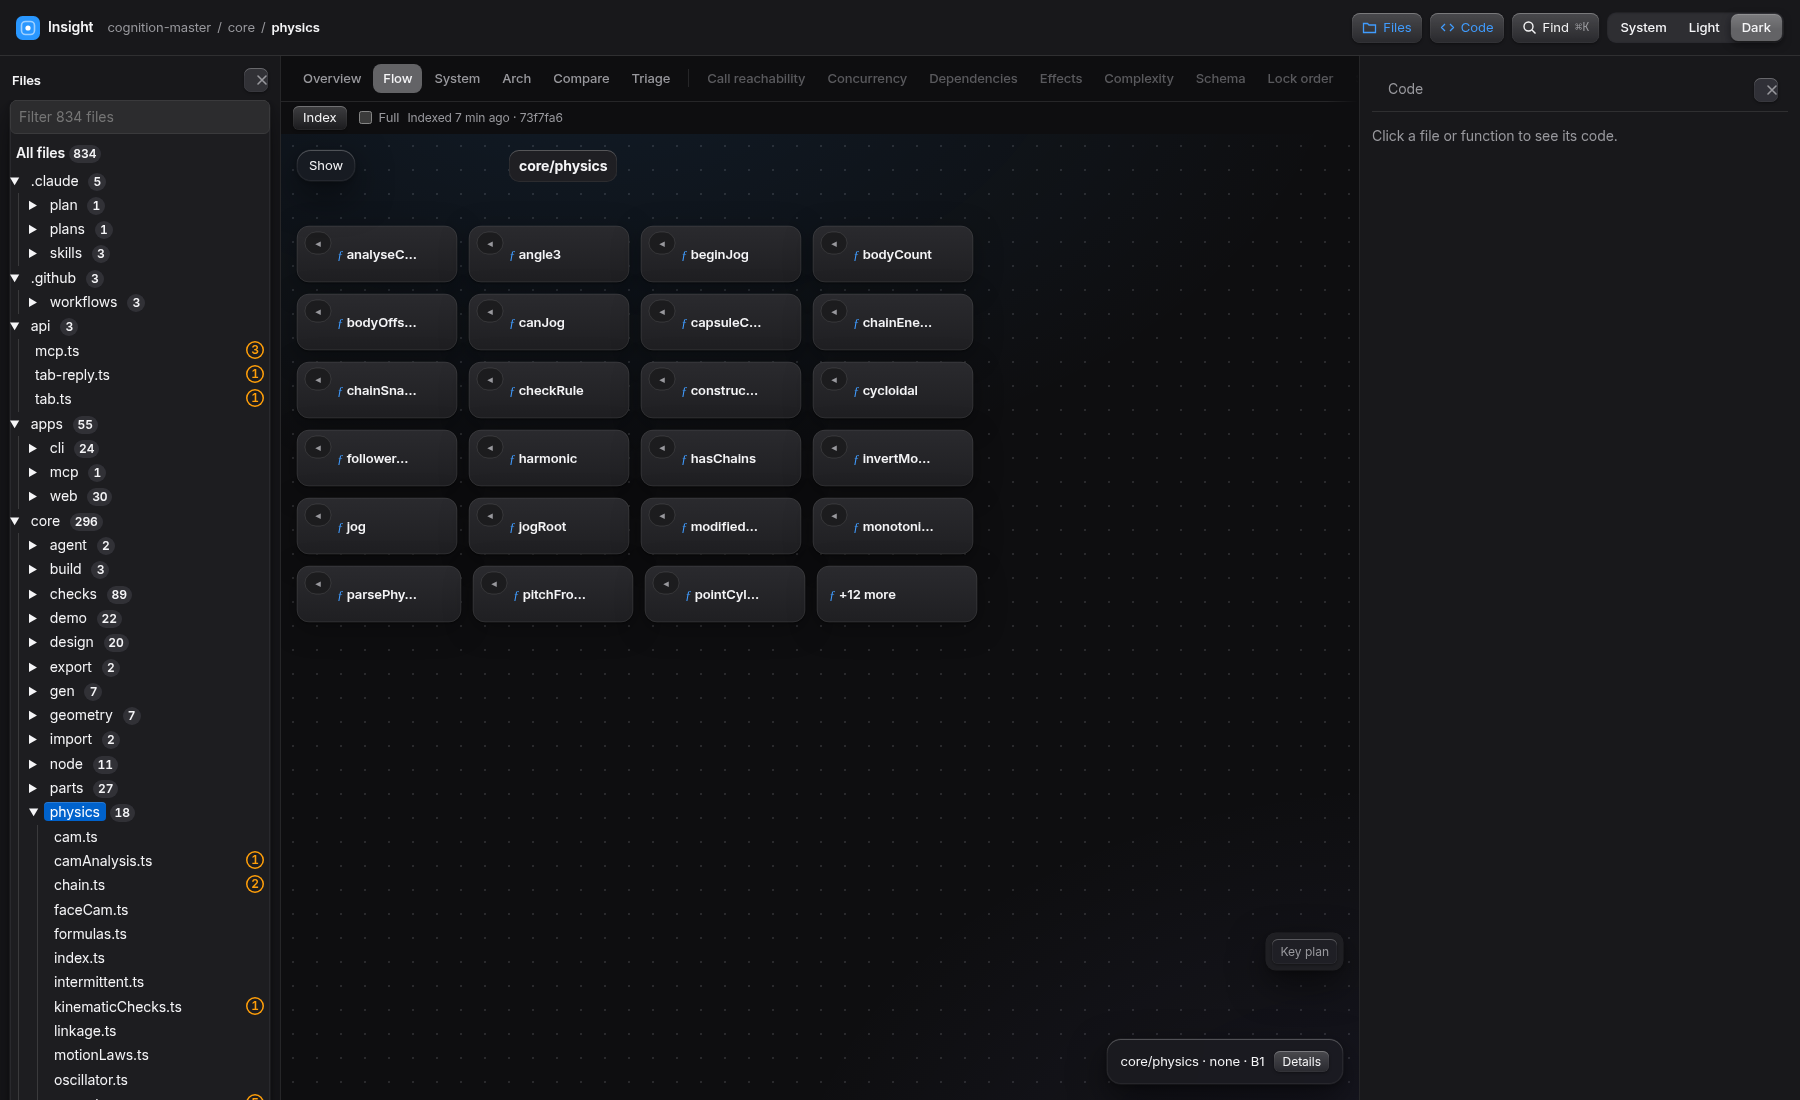
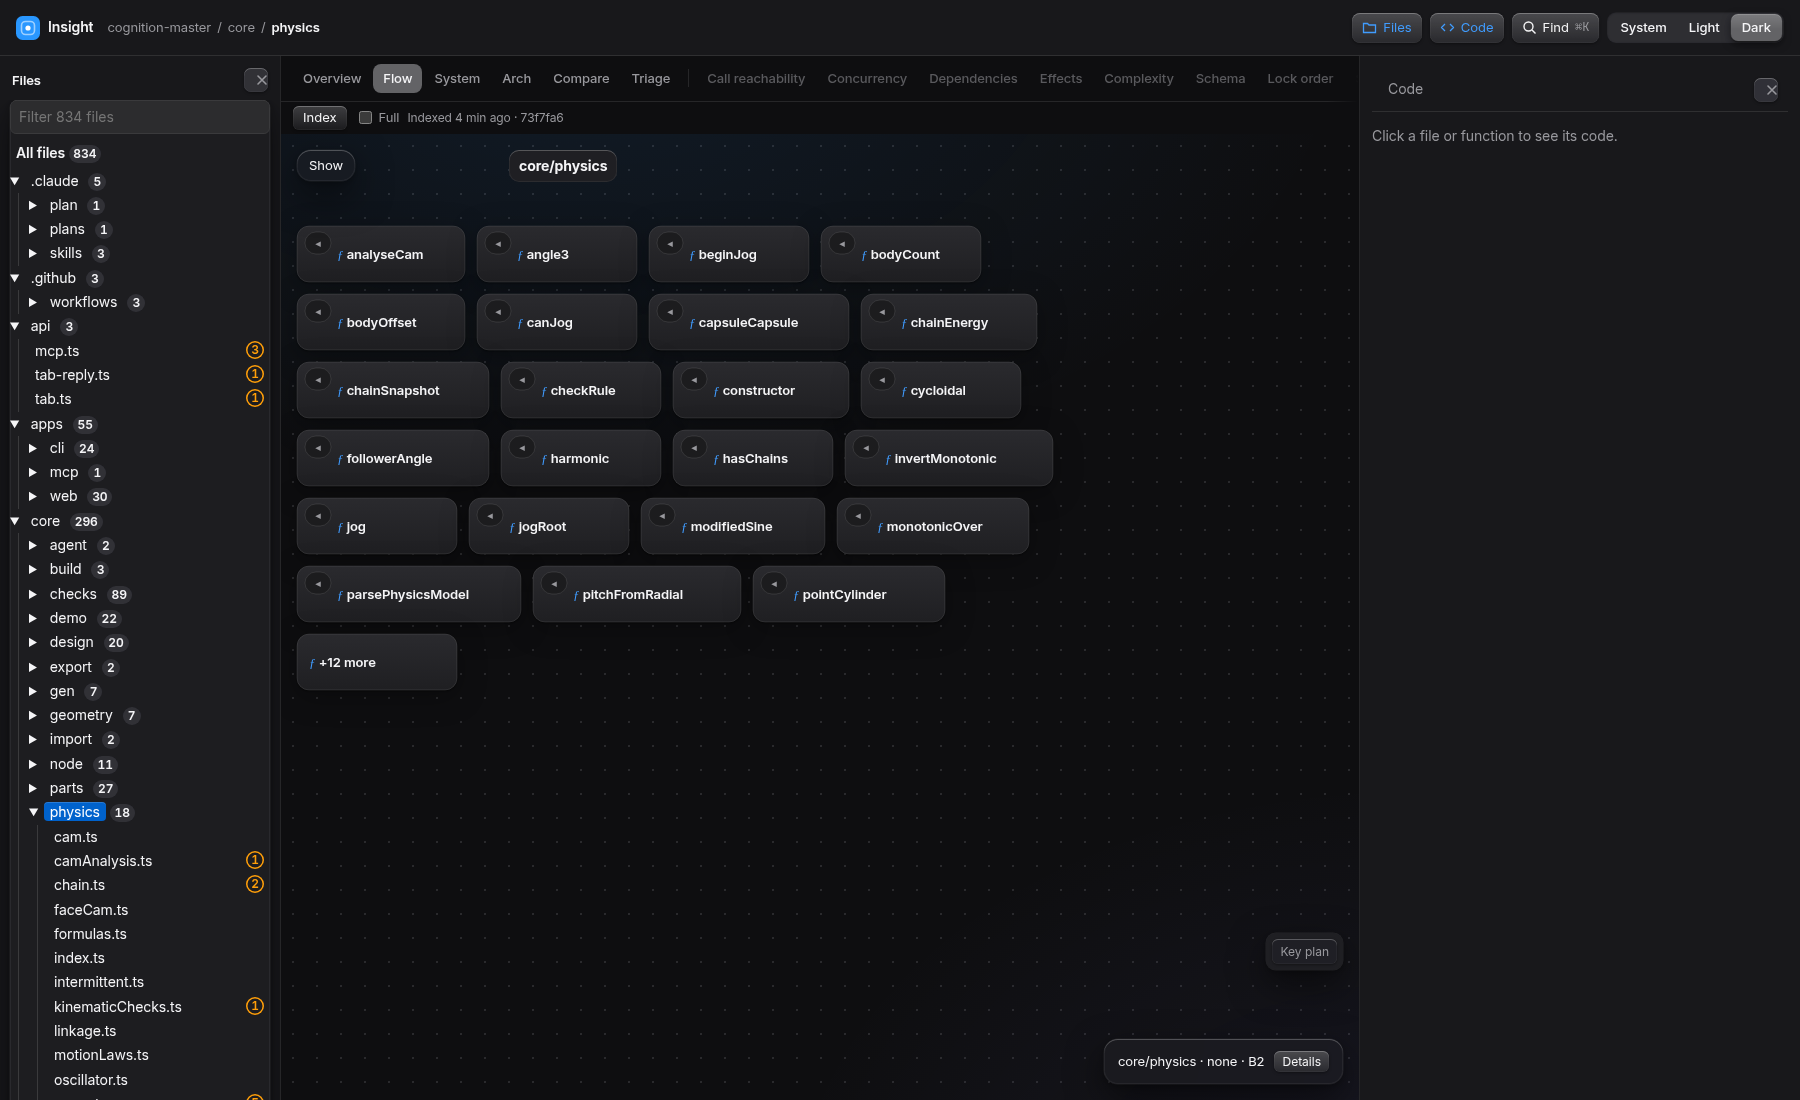
flow: cards fit their whole name at 1x; compact ◂ on every card
cardWidth now sizes a card for its whole name beside the compact
Callers button, using constants shared with ZoomMap (roots-grid.ts).
The more card reserves no button room. Names no longer lose their
last character to the ellipsis. The stem line keeps clear of the
self-sync badge. Tests cover the fit at 1x, the stem and badge, and
a function whose id ends in #more opening as a function.

Changed region(s): [[0.1556, 0.2164, 0.5911, 0.6182], [0.6222, 0.9582, 0.6844, 0.9891], [0.2489, 0.0927, 0.3111, 0.1236]]

diff --git a/apps/web/src/components/zoom/ZoomMap.tsx b/apps/web/src/components/zoom/ZoomMap.tsx
@@ -7,7 +7,7 @@
 import { useEffect, useId, useLayoutEffect, useMemo, useRef, useState, type KeyboardEvent as KeyEvent, type PointerEvent as PointerEv, type ReactNode } from "react";
 import { select } from "d3-selection";
 import { zoom, zoomIdentity, type D3ZoomEvent, type ZoomBehavior, type ZoomTransform } from "d3-zoom";
-import { CHART_FIT_MAX_K, CHART_HEAD, ZOOM_SIZE, fitCamera, fitChartCamera, visibleWorld, type Camera, type FlowNode, type FlowSpan, type FunctionFlow, type PlacedItem, type Rect } from "@insight/flow";
+import { CARD_CALLERS_ROOM, CARD_CHAR_W, CARD_GLYPH_CHARS, CARD_NAME_PAD, CHART_FIT_MAX_K, CHART_HEAD, ZOOM_SIZE, fitCamera, fitChartCamera, visibleWorld, type Camera, type FlowNode, type FlowSpan, type FunctionFlow, type PlacedItem, type Rect } from "@insight/flow";
 import { isPostStep, nameOfId, runtimeLabel, stepRuntime } from "../../flowTargets";
 import { hrefView } from "../../router";
 import { CHART_MIN_PX } from "../../zoom/chart";
@@ -16,7 +16,7 @@ import { callersKey, isCallersKey, refOfCallersKey, type CallerRow } from "../..
 import { LatestLoad } from "../../zoom/latestLoad";
 import { CallersBox } from "./CallersBox";
 import { fileTarget, useCodeTarget } from "../../codeTarget";
-import { CALLERS_BTN_H, CALLERS_BTN_W, CALLERS_COMPACT_W, CallersButton, FULL_K, GLYPH_K } from "./CallersControl";
+import { CALLERS_BTN_H, CALLERS_COMPACT_W, CallersButton, GLYPH_K } from "./CallersControl";
 import { calloutD } from "../../zoom/connector";
 import { popDelay } from "../../zoom/pop";
 import { displayName } from "../../zoom/names";
@@ -2008,20 +2008,20 @@ export function BoxShape({
   if (card && !small && !bare) {
     // A card: its name alone, centred vertically, fitted to the card's width on screen.
     // Two characters of the budget go to the leading function glyph (ƒ), so the name stays inside the card.
-    // A card tall enough for it takes a Callers button at its left, and its name keeps clear of the button. The name
-    // comes first: when it would not fit whole beside the full button, the button is compact (the ◂ alone).
+    // A card tall enough for it takes a compact Callers button (the ◂ alone) at its left, and its name keeps clear of it.
+    // The name's budget is the card's width less the button's room, the padding and the ƒ glyph (the constants are shared
+    // with roots-grid.ts's cardWidth, which sizes the card so a name fits whole at 1x).
     const showCallers = onCallers !== undefined && rect.h >= CALLERS_BTN_H + 12 && k >= GLYPH_K;
     // The name's font is 13 px on screen until 11 world units grow past it (above about 1.2×), and a character takes about
     // 0.6 of the font: the fit follows the font as it grows with the zoom.
-    const charPx = Math.max(8, 6.8 * k);
+    const charPx = Math.max(CARD_CHAR_W, 6.8 * k);
     // The name starts 12 units in (after the chip, when there is one) and keeps 12 clear of the card's right edge. A card
     // with a stem line draws the bare name on its first line, and the stem on a second line under it, at the same x.
-    const nameIn = (room: number) => fitLabel(base, Math.max(1, labelChars((rect.w - room) * k, charPx, 20) - 2));
-    const fullName = nameIn(showCallers ? CALLERS_BTN_W + 26 : 0);
-    const compactCallers = showCallers && (fullName !== base || k < FULL_K);
-    const name = compactCallers ? nameIn(CALLERS_COMPACT_W + 26) : fullName;
-    const textX = rect.x + 12 + (showCallers ? (compactCallers ? CALLERS_COMPACT_W : CALLERS_BTN_W) - 4 + 6 : 0);
-    const stem = subTag !== undefined ? fitLabel(subTag, Math.max(1, labelChars((rect.x + rect.w - 12 - textX) * k, charPx * 0.9, 20))) : null;
+    const name = fitLabel(base, Math.max(1, labelChars((rect.w - (showCallers ? CARD_CALLERS_ROOM : 0)) * k, charPx, CARD_NAME_PAD) - CARD_GLYPH_CHARS));
+    const textX = rect.x + 12 + (showCallers ? CALLERS_COMPACT_W - 4 + 6 : 0);
+    // The stem line keeps clear of the self-sync badge at the card's bottom right (about charPx a character, 10 px to its left).
+    const badgePx = selfSync !== undefined ? `⇆ ${selfSync.length}`.length * charPx + 10 : 0;
+    const stem = subTag !== undefined ? fitLabel(subTag, Math.max(1, labelChars((rect.x + rect.w - 12 - textX) * k - badgePx, charPx * 0.9, CARD_NAME_PAD))) : null;
     return (
       <g className={`zm-box zm-${node.kind} zm-card ${lineClass(line)}${holdsChart ? " zm-has-chart" : ""}${chartOpen ? " expanded" : ""}${unguarded ? " zm-unguarded" : ""}`} data-sx={rect.x} data-fid={item.id} onClick={() => onOpen(item.id)} onDoubleClick={onDoubleOpen ? () => onDoubleOpen(item.id) : undefined}>
         <title>{`${node.detail !== undefined ? `${node.label} (${node.detail})` : node.title || node.label}${unguardedTitle}${selfSyncTitle}`}</title>
@@ -2047,7 +2047,7 @@ export function BoxShape({
           )}
         </g>
         {showCallers && (
-          <CallersButton x={rect.x + 8} y={rect.y + 6} name={shown} open={callersOpen} onClick={onCallers} k={k} compact={compactCallers} />
+          <CallersButton x={rect.x + 8} y={rect.y + 6} name={shown} open={callersOpen} onClick={onCallers} k={k} compact />
         )}
       </g>
     );

diff --git a/apps/web/test/zoomFrames.test.tsx b/apps/web/test/zoomFrames.test.tsx
@@ -2,7 +2,7 @@ import { describe, expect, it } from "vitest";
 import { renderToStaticMarkup } from "react-dom/server";
 import { BoxShape, isMoreCard } from "../src/components/zoom/ZoomMap";
 import type { MapNode } from "../src/zoom/source";
-import type { PlacedItem } from "@insight/flow";
+import { cardWidth, type PlacedItem } from "@insight/flow";
 
 // The boxes of the flat grid: a card, an external command's chip, and a card's badges. The Flow canvas draws no runtime frames
 // (thread, group, process), so none is tested here. The map builds its items in an effect, so a box is rendered on its own,
@@ -140,5 +140,74 @@ describe("the flat grid's card names", () => {
     expect(isMoreCard({ kind: "more" })).toBe(true);
     expect(isMoreCard({ kind: "function" })).toBe(false);
     expect(isMoreCard(undefined)).toBe(false);
+  });
+});
+
+describe("the flat grid's card fits", () => {
+  // A card drawn at the width cardWidth gives its name, at 1x, with its Callers button: the whole name shows, no "…".
+  it.each([["a"], ["settle"], ["settleChains"], ["bodyCountOfTheActuatorChain"], ["linkPlateLongNameHere"]])("shows the whole name %s at 1x", (name) => {
+    const html = svg(
+      <BoxShape
+        item={box("fn", 0, 0, cardWidth(name), 56)}
+        node={node("fn", "function", name, { ref: `src/x.ts#${name}` })}
+        line="thread"
+        k={1}
+        onOpen={() => undefined}
+        onCallers={() => undefined}
+        chartOpen={false}
+        card
+      />,
+    );
+    expect(html).toContain(`ƒ</tspan> ${name}</text>`);
+    expect(html).toContain("zm-callers-btn");
+    expect(html).not.toContain("…");
+  });
+
+  it("shows a more card's whole name at its own width, with no Callers button", () => {
+    const name = "+12 more";
+    const html = svg(
+      <BoxShape item={box("p#more", 0, 0, cardWidth(name, false), 56)} node={node("p#more", "more", name)} line="thread" k={1} onOpen={() => undefined} chartOpen={false} card />,
+    );
+    expect(html).toContain(`ƒ</tspan> ${name}</text>`);
+    expect(html).not.toContain("…");
+  });
+
+  it("keeps the stem line clear of the self-sync badge: a stem under the badge is cut short", () => {
+    // At 320 wide the stem's room is 38 characters plain and 33 under the badge, so a 36-character stem fits plain only.
+    const stem = "abcdefghijklmnopqrstuvwxyz0123456789";
+    const draw = (syncSelf?: MapNode["syncSelf"]) =>
+      svg(
+        <BoxShape
+          item={box("main", 0, 0, 320, 56)}
+          node={node("main", "function", "main", { ref: "src/m.ts#main", shownName: `main · ${stem}`, syncSelf })}
+          line="thread"
+          k={1}
+          onOpen={() => undefined}
+          chartOpen={false}
+          card
+        />,
+      );
+    const subOf = (html: string) => /class="zm-card-sub"[^>]*>([^<]*)</.exec(html)?.[1] ?? "";
+    const plain = subOf(draw());
+    const badged = subOf(draw([{ name: "a", kind: "lock" }]));
+    expect(plain).toBe(stem);
+    expect(badged.length).toBeLessThan(plain.length);
+    expect(badged.endsWith("…")).toBe(true);
+  });
+
+  it("opens a function card whose id ends in #more, and does not treat it as the more card", () => {
+    const clicks: string[] = [];
+    const el = BoxShape({
+      item: box("pkg/mod.ts#more", 0, 0, 240, 56),
+      node: node("pkg/mod.ts#more", "function", "more", { ref: "pkg/mod.ts#more" }),
+      line: "thread",
+      k: 1,
+      onOpen: (id) => clicks.push(id),
+      chartOpen: false,
+      card: true,
+    }) as React.ReactElement<{ onClick?: () => void }>;
+    el.props.onClick?.();
+    expect(clicks).toEqual(["pkg/mod.ts#more"]);
+    expect(isMoreCard({ kind: "function" })).toBe(false);
   });
 });

diff --git a/packages/core/flow/src/roots-grid.ts b/packages/core/flow/src/roots-grid.ts
@@ -10,11 +10,17 @@ export const CARD_H = 56;
 /** A card's width: the full name, between these bounds. Only a name past the maximum is truncated. */
 export const CARD_MIN_W = 160;
 export const CARD_MAX_W = 320;
-/** The width of a monospace character at the card's name size (12 px), and the card's inner padding. */
-const CHAR_W = 8;
-const CARD_PAD_W = 28;
-/** The room a card keeps for its Callers button at its left (the button is about 78 px wide, and the name starts past it). */
-const CARD_CALLERS_W = 52;
+/**
+ * The name's width at 1x, shared with ZoomMap's card (apps/web/src/components/zoom/ZoomMap.tsx), which fits the name in the
+ * card's width with these. A character of the name is CARD_CHAR_W px (12 px monospace); the leading ƒ glyph takes
+ * CARD_GLYPH_CHARS of the budget; CARD_NAME_PAD is the label's padding (labelChars).
+ */
+export const CARD_CHAR_W = 8;
+export const CARD_GLYPH_CHARS = 2;
+export const CARD_NAME_PAD = 20;
+/** The compact Callers button (the ◂ alone) is CARD_CALLERS_W wide; a card keeps 26 px clear beside it for the name. */
+export const CARD_CALLERS_W = 26;
+export const CARD_CALLERS_ROOM = CARD_CALLERS_W + 26;
 /** The gap between cards, both ways. */
 export const CARD_GAP = 12;
 /** The grid's width: it wraps here, so the grid fits a 1600 px window's map at 1x. */
@@ -24,9 +30,13 @@ export const CARD_PAD_TOP = 64;
 export const CARD_PAD_BOTTOM = 170;
 export const CARD_PAD_SIDE = 16;
 
-/** A card's width for a name: the name's width plus the Callers button's room, between CARD_MIN_W and CARD_MAX_W. */
-export function cardWidth(label: string): number {
-  const w = Math.ceil(label.length * CHAR_W) + CARD_PAD_W + CARD_CALLERS_W;
+/**
+ * A card's width for a name: the whole name fits beside the compact Callers button (a card with no button, such as the
+ * "+N more" card, keeps no room for it). Between CARD_MIN_W and CARD_MAX_W; only a name past the maximum is truncated.
+ */
+export function cardWidth(label: string, callers = true): number {
+  const room = callers ? CARD_CALLERS_ROOM : 0;
+  const w = Math.ceil(CARD_CHAR_W * (label.length + CARD_GLYPH_CHARS) + CARD_NAME_PAD + room);
   return Math.min(CARD_MAX_W, Math.max(CARD_MIN_W, w));
 }
 
@@ -53,7 +63,7 @@ export function gridRootsLayout(scene: Scene, footprint?: Footprint): SceneLayou
   let width = 0;
   for (const id of kids) {
     const n = scene.nodes.get(id);
-    const w = cardWidth(n === undefined ? id : (n.shownName ?? displayName(n.label, n.ref)));
+    const w = cardWidth(n === undefined ? id : (n.shownName ?? displayName(n.label, n.ref)), n?.kind !== "more");
     const room = footprint?.get(id);
     const left = room?.left ?? 0;
     const outerW = left + w + (room?.w ?? 0);

diff --git a/packages/core/flow/test/roots-grid.test.ts b/packages/core/flow/test/roots-grid.test.ts
@@ -1,5 +1,5 @@
 import { describe, expect, it } from "vitest";
-import { CARD_GAP, CARD_H, CARD_MAX_W, CARD_MIN_W, CARD_PAD_BOTTOM, CARD_PAD_TOP, CARD_WRAP_W, cardWidth, gridRootsLayout } from "../src/roots-grid.js";
+import { CARD_CALLERS_ROOM, CARD_CHAR_W, CARD_GAP, CARD_GLYPH_CHARS, CARD_H, CARD_MAX_W, CARD_MIN_W, CARD_NAME_PAD, CARD_PAD_BOTTOM, CARD_PAD_TOP, CARD_WRAP_W, cardWidth, gridRootsLayout } from "../src/roots-grid.js";
 import type { Scene, SceneNode } from "../src/scene.js";
 
 function flat(labels: string[]): Scene {
@@ -11,18 +11,36 @@ function flat(labels: string[]): Scene {
 }
 
 describe("cardWidth", () => {
-  it("leaves room for the Callers button, 52 px beyond the name", () => {
-    expect(cardWidth("settleChains")).toBe("settleChains".length * 8 + 28 + 52);
+  it("reserves the compact Callers button's room and the padding beyond the name's characters", () => {
+    // the glyph (2 characters), the label padding (20 px) and the button's room (52 px) sit beside the name's 8 px characters
+    expect(cardWidth("settleChains")).toBe(8 * ("settleChains".length + 2) + 20 + 52);
+  });
+
+  it("keeps no button room for a card without a Callers button (the more card)", () => {
+    const label = "x".repeat(20);
+    expect(cardWidth(label, false)).toBe(8 * (label.length + 2) + 20);
+    expect(cardWidth(label)).toBe(cardWidth(label, false) + 52);
   });
 
   it("fits the name between the minimum and the maximum", () => {
-    expect(cardWidth("ab")).toBe(CARD_MIN_W);
+    expect(cardWidth("")).toBe(CARD_MIN_W);
     expect(cardWidth("a".repeat(60))).toBe(CARD_MAX_W);
     const mid = cardWidth("settleChains");
     expect(mid).toBeGreaterThanOrEqual(CARD_MIN_W);
     expect(mid).toBeLessThanOrEqual(CARD_MAX_W);
-    expect(mid).toBeGreaterThanOrEqual("settleChains".length * 7.2 + 26);
   });
+
+  // The width ZoomMap needs for a name to fit whole at 1x: its budget is the width less the button's room and the padding,
+  // and the ƒ glyph takes two characters of it (see ZoomMap's card), so the name needs (length + 2) characters of 8 px.
+  it.each([["a"], ["settle"], ["settleChains"], ["bodyCountOfTheActuatorChain"], ["linkPlateLongNameHere"]])(
+    "is wide enough for the whole name %s beside its compact button",
+    (name) => {
+      const needed = CARD_CHAR_W * (name.length + CARD_GLYPH_CHARS) + CARD_NAME_PAD + CARD_CALLERS_ROOM;
+      const w = cardWidth(name);
+      expect(w).toBeGreaterThanOrEqual(Math.min(CARD_MAX_W, needed));
+      if (needed <= CARD_MAX_W) expect(w).toBeGreaterThanOrEqual(needed);
+    },
+  );
 });
 
 describe("gridRootsLayout: the shown name sizes a card", () => {

diff --git a/apps/web/src/components/zoom/CallersControl.tsx b/apps/web/src/components/zoom/CallersControl.tsx
@@ -2,13 +2,14 @@
 // chart box, a nested frame, or a grid card, and it never selects or toggles the box it is in (a click stops there).
 // It is a keyboard control too: Tab reaches it, Enter or Space presses it. Its look follows the close × and the chevron: the
 // same hairline and fill tokens (see styles.css).
+import { CARD_CALLERS_W } from "@insight/flow";
 import { keyActivates } from "./keys";
 
 /** The button's size, in world units (its text is kept readable by the label's own size rule in styles.css). */
 export const CALLERS_BTN_W = 78;
 export const CALLERS_BTN_H = 22;
 /** The compact button's width: the ◂ alone, for a card whose name needs the room, or a map zoomed out (see FULL_K). */
-export const CALLERS_COMPACT_W = 26;
+export const CALLERS_COMPACT_W = CARD_CALLERS_W;
 
 /**
  * The label keeps its size on screen (11 px) while the pill zooms with the map, so a zoomed-out pill is too small for it:

diff --git a/apps/web/test/flowCallers.test.tsx b/apps/web/test/flowCallers.test.tsx
@@ -566,10 +566,11 @@ describe("the Callers chip on a roots-only card", () => {
     expect(html).not.toContain("◂ callers");
   });
 
-  it("a wide card whose name fits beside it keeps the full chip", () => {
+  it("a wide card whose name fits beside it still takes the compact ◂ chip: cards all use it", () => {
     const html = card("run", 1, 300);
     expect(nameOf(html)).toBe("run");
-    expect(html).toContain("◂ callers");
+    expect(html).toMatch(/zm-callers-btn[^]*>◂<\/text>/);
+    expect(html).not.toContain("◂ callers");
   });
 
   it("a card with no chip keeps its whole name: no room is reserved for a button that is not drawn", () => {
